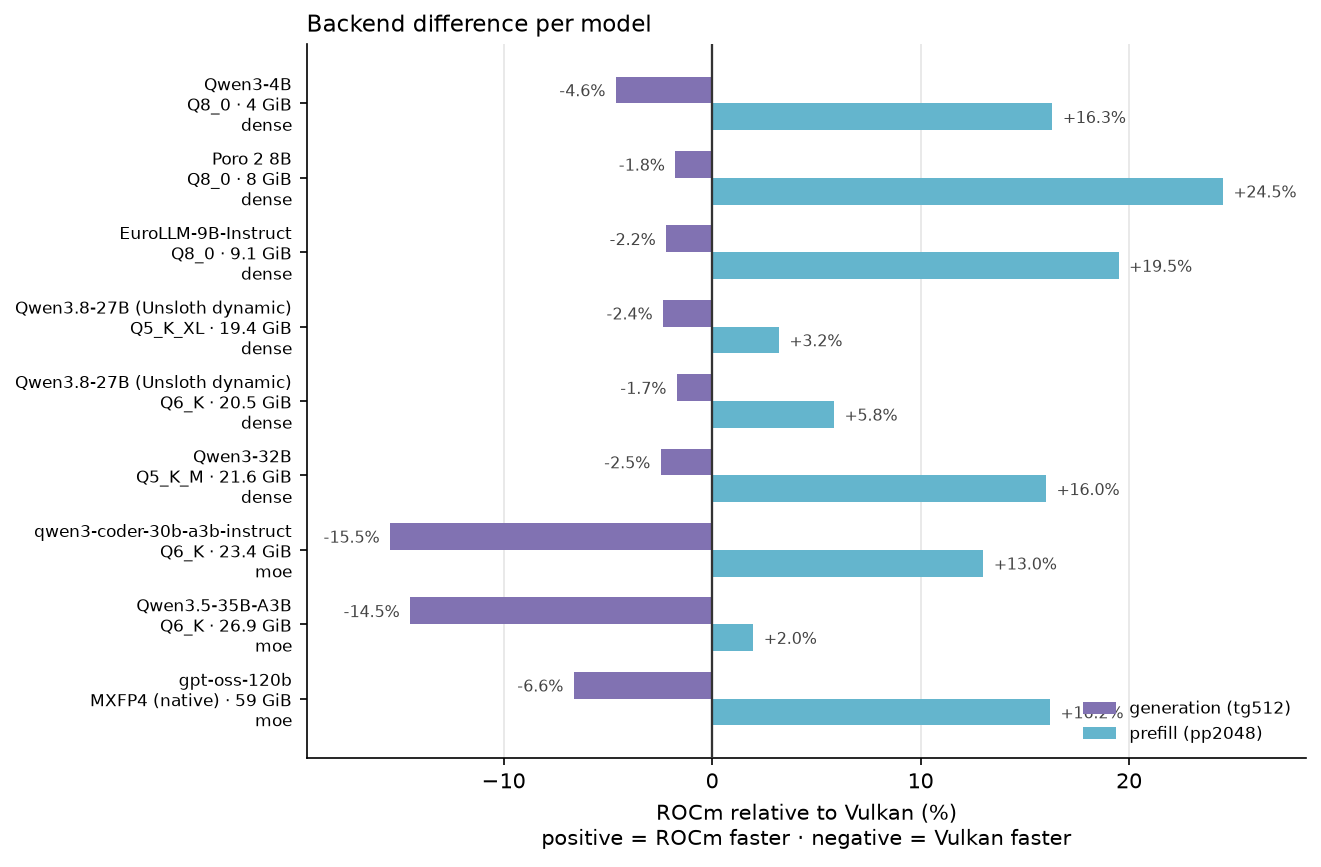
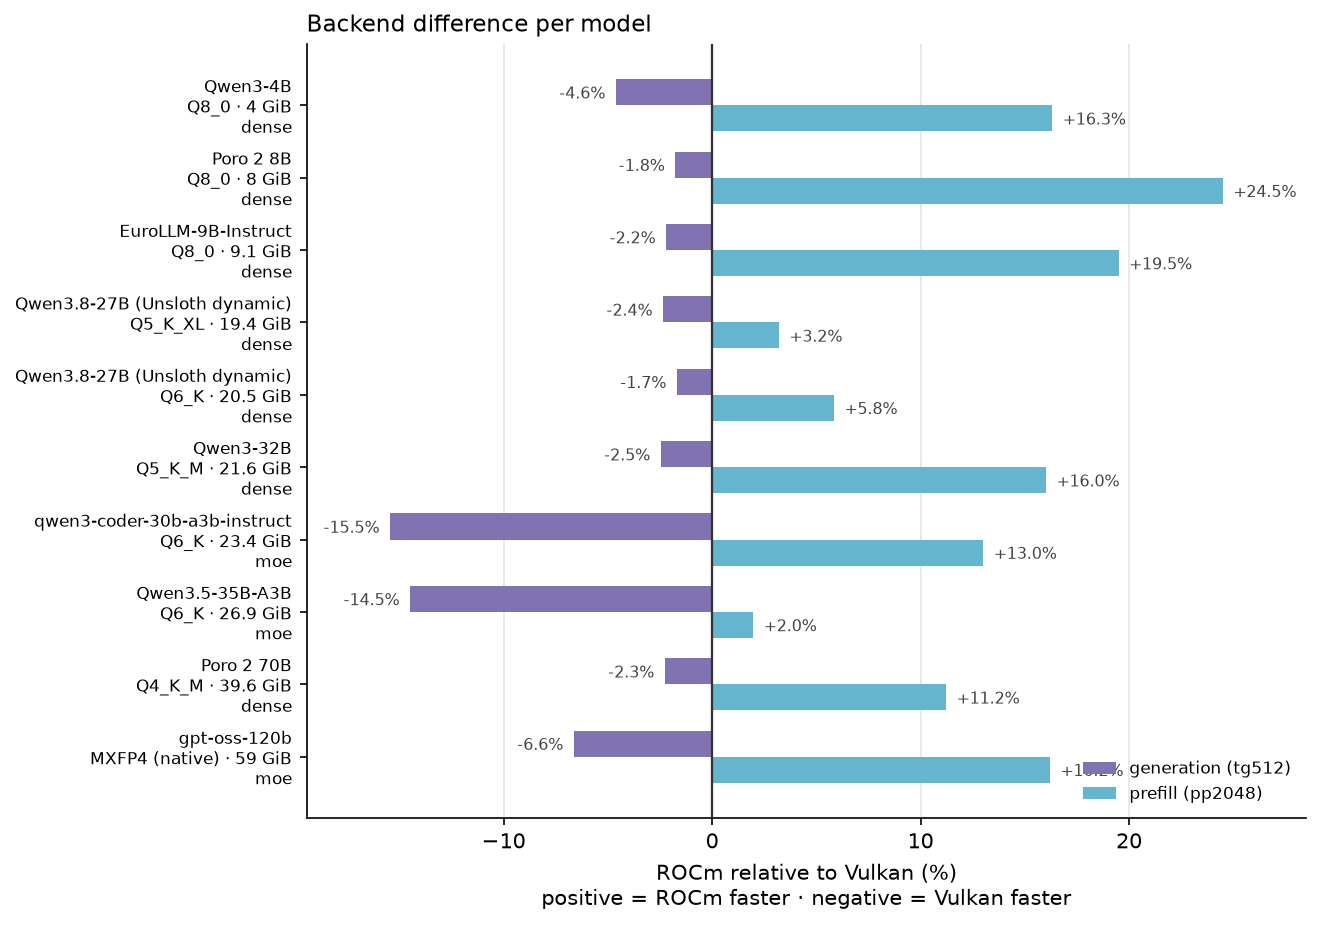
results: Poro 2 70B swept on both backends (10th and 11th cells)
Verified before sweeping: size exact (42,520,398,784 B), sha256 matches HF's LFS
oid, GGUF tensor index parses with data ending at EOF.

  vulkan (run-20261003-1718)  tg512 5.27 t/s · server 5.24 · pp2048 117.9 · 82 C
  rocm   (run-20261003-1729)  tg512 5.15 t/s · server 5.10 · pp2048 131.2 · 89 C

At 39.6 GiB the dense ceiling is 6.46 t/s, so 5.27 is 82% of it — inside the
77-85% band the other six dense cells occupy, which is the ceiling rule of thumb
holding at the top of the size range. tok/s/W 0.06 on both backends, and ROCm
runs 7 C hotter.

With ten cells on the shared axes the backend split is unanimous rather than
5/5 + 4/4 or 9/9: Vulkan faster on tg512 in 10/10, ROCm faster on pp2048 in
10/10. Charts regenerate automatically (order and labels come from the rollup and
matrix, so no list to update) and the four PNGs plus the README narration now
cover the full set.

Changed region(s): [[0.2483, 0.0623, 0.9932, 0.9965], [0.0, 0.0623, 0.2483, 0.8408], [0.2173, 0.0, 0.4966, 0.0623]]

diff --git a/README.md b/README.md
@@ -94,11 +94,12 @@ to 88 °C vs 85 °C).
 
 ### Charts
 
-All nine measured cells, both backends, ordered by model size (small → large). Each row
-is one model with its Vulkan and ROCm results joined by a line, so the pair *and the size
-of the gap* read directly. On the generation chart the dense-model bandwidth ceiling
+All ten measured cells, both backends, ordered by model size (small → large). Each row is
+one model with its Vulkan and ROCm results joined by a line, so the pair *and the size of
+the gap* read directly. On the generation chart the dense-model bandwidth ceiling
 (256 GB/s ÷ model size) is marked ✕ where it applies — every dense cell lands at 77–85% of
-it, while the MoE cells clear it outright, which is the MoE advantage in one line:
+it, including the 39.6 GiB Poro 2 70B at 82%, while the MoE cells clear it outright, which
+is the MoE advantage in one line:
 
 ![Generation throughput — tg512 (tok/s)](charts/generation_tps.png)
 
@@ -107,8 +108,8 @@ it, while the MoE cells clear it outright, which is the MoE advantage in one lin
 ![Generation efficiency — tokens per watt](charts/tokens_per_watt.png)
 
 The backend split as a single picture — bars are ROCm relative to Vulkan, so positive is
-ROCm faster and negative Vulkan faster. Across all nine cells it is unanimous: **Vulkan
-wins generation in 9 of 9 (ROCm trails by 1.7–15.5%) and ROCm wins prefill in 9 of 9 (by
+ROCm faster and negative Vulkan faster. Across all ten cells it is unanimous: **Vulkan wins
+generation in 10 of 10 (ROCm trails by 1.7–15.5%) and ROCm wins prefill in 10 of 10 (by
 2.0–24.5%)** — the MoE 30–35B cells show by far the widest prefill gap:
 
 ![Backend difference — ROCm vs Vulkan](charts/backend_delta.png)
@@ -134,13 +135,16 @@ are in [results/table.md](results/table.md).
 | qwen3-32b-q5_k_m | Q5_K_M | rocm | 306.88 | 9.47 | 9.31 | 113.2 | 0.11 | 22.79 |
 | qwen3-4b-q8_0 | Q8_0 | vulkan | 2056.79 | 49.1 | 47.69 | 27.7 | 0.57 | 4.81 |
 | qwen3-4b-q8_0 | Q8_0 | rocm | 2392.52 | 46.83 | 44.97 | 24.4 | 0.53 | 5.06 |
+| poro2-70b-q4_k_m | Q4_K_M | vulkan | 117.92 | 5.27 | 5.24 | 199.6 | 0.06 | 40.72 |
+| poro2-70b-q4_k_m | Q4_K_M | rocm | 131.16 | 5.15 | 5.1 | 200.3 | 0.06 | 41.02 |
 
-**The same split reproduces on all four.** Vulkan is faster on `tg512` in 4 of 4 cells
-(ROCm trails by 1.8–4.6%), ROCm is faster on `pp2048` in 4 of 4 (by 16.0–24.5%) — the
-direction held across a different size range, from a 4B tiny cell to a 32B dense one.
-Rates scale with size as expected: Poro 2 8B (8 GiB, Q8_0) reaches 27.1 t/s on Vulkan
-against a ~32 t/s bandwidth ceiling, and Qwen3-4B Q8_0 is the efficiency leader of this
-round at 0.57 tok/s/W.
+**The same split reproduces on all five.** Vulkan is faster on `tg512` in 5 of 5 cells
+(ROCm trails by 1.8–4.6%), ROCm is faster on `pp2048` in 5 of 5 (by 11.2–24.5%) — the
+direction held from a 4B tiny cell to a 39.6 GiB 70B. Rates scale with size as expected:
+Poro 2 8B (8 GiB, Q8_0) reaches 27.1 t/s on Vulkan against a ~32 t/s bandwidth ceiling,
+Poro 2 70B (39.6 GiB, Q4_K_M) reaches 5.27 t/s against 6.46 t/s (82%, inside the same band
+as every other dense cell), and Qwen3-4B Q8_0 is the efficiency leader at 0.57 tok/s/W.
+The 70B is also the hottest cell measured — 89 °C on ROCm against 82 °C on Vulkan.
 
 ## Running it
 

diff --git a/results/table.md b/results/table.md
@@ -1,6 +1,6 @@
 # Results
 
-> Rollup built by harness `0f7ca5cea5bf`. Sustained = llama-server streaming 512-token generations. bench = llama-bench (mean of repeats). probe W = GPU power mean during server phase. TTFT mean is inflated where the per-request spread is wide (Vulkan) — compare with p50.
+> Rollup built by harness `bf93a0eddd19`. Sustained = llama-server streaming 512-token generations. bench = llama-bench (mean of repeats). probe W = GPU power mean during server phase. TTFT mean is inflated where the per-request spread is wide (Vulkan) — compare with p50.
 
 ## run-20261002-1719 — rocm
 
@@ -45,3 +45,15 @@
 | poro2-8b-q8_0 | Q8_0 | 1277.2 | 26.65 | 26.16 | 43.0 | 41.9 | 85.2 | 0.31 | 8.47 |
 | qwen3-32b-q5_k_m | Q5_K_M | 306.88 | 9.47 | 9.31 | 118.3 | 113.2 | 85.3 | 0.11 | 22.79 |
 | qwen3-4b-q8_0 | Q8_0 | 2392.52 | 46.83 | 44.97 | 26.0 | 24.4 | 85.2 | 0.53 | 5.06 |
+
+## run-20261003-1718 — vulkan
+
+| cell | quant | pp2048 t/s | tg512 bench t/s | tg server t/s | TTFT mean ms | TTFT p50 ms | probe W | tok/s/W | VRAM peak GiB |
+|---|---|---|---|---|---|---|---|---|---|
+| poro2-70b-q4_k_m | Q4_K_M | 117.92 | 5.27 | 5.24 | 354.6 | 199.6 | 85.1 | 0.06 | 40.72 |
+
+## run-20261003-1729 — rocm
+
+| cell | quant | pp2048 t/s | tg512 bench t/s | tg server t/s | TTFT mean ms | TTFT p50 ms | probe W | tok/s/W | VRAM peak GiB |
+|---|---|---|---|---|---|---|---|---|---|
+| poro2-70b-q4_k_m | Q4_K_M | 131.16 | 5.15 | 5.1 | 210.1 | 200.3 | 85.2 | 0.06 | 41.02 |
